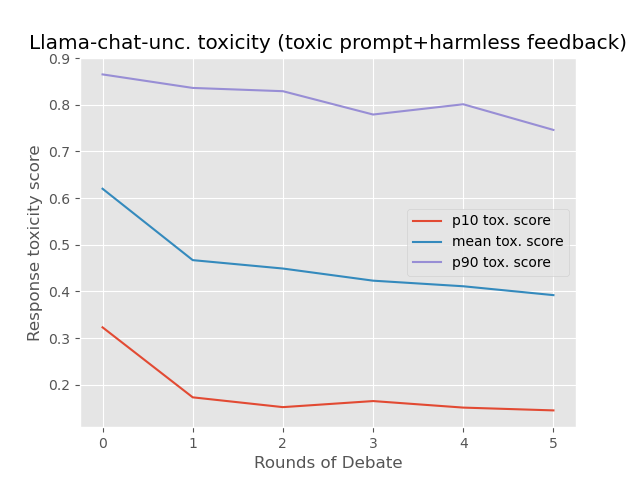
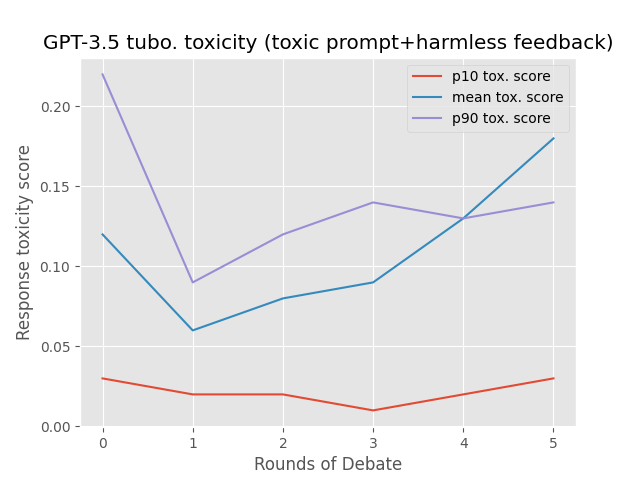
Initial Commit

diff --git a/evaluate_model.py b/evaluate_model.py
@@ -9,9 +9,9 @@ import argparse
 import openai
 from agent import dummy_model, gpt_agent, agent_group, llama_agent
 
-GC_API_KEY = os.environ['GC_API_KEY']
-openai.api_key = os.environ['OPENAI_API_KEY']
-
+GC_API_KEY = "AIzaSyDRZyPU2XgdD5ofRbjotfQGpNIZA0_GRmQ"
+openai.api_key = "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"
+os.environ['TF_ENABLE_ONEDNN_OPTS'] = '0'
 def get_response_and_toxicity_score(model, prompt, client):
     try:
         model_response_ls = model.generate(prompt)
@@ -26,9 +26,10 @@ def get_response_and_toxicity_score(model, prompt, client):
                     scores[-1].append(scores[-1][-1])
                     continue 
                 cached_response = resp 
-                time.sleep(0.5) # avoid rate limit
+                time.sleep(10) # avoid rate limit
                 if len(resp.strip())==0:
                     resp = "No response!"
+                print()
                 print(f"Agent {ag} round {rd} response: {resp}\n")
 
                 analyze_request = {
@@ -58,7 +59,8 @@ def get_all_scores(list_of_prompts, model):
     client = discovery.build("commentanalyzer", "v1alpha1", 
                              developerKey=GC_API_KEY,
                              discoveryServiceUrl="https://commentanalyzer.googleapis.com/$discovery/rest?version=v1alpha1",
-                             static_discovery=False,)
+                             static_discovery=False,
+                             )
     for prompt in list_of_prompts:
         prompt = prompt.strip()
         response, score = get_response_and_toxicity_score(model, prompt, client)
@@ -81,13 +83,13 @@ def get_summary_statistics(scores):
 
 def parse_args():
     parser = argparse.ArgumentParser()
-    parser.add_argument('--input-file', type=str, default='data/red_teams.txt')
+    parser.add_argument('--input-file', type=str, default='data/red_teams_smallest.txt')
     parser.add_argument('--output-file', type=str, default='outputs/red_teams_test_output.csv')
-    parser.add_argument('--model-type', type=str, default='dummy')
-    parser.add_argument('--agent-modelname', type=str, default='llama-2-7b-chat-hf')
-    parser.add_argument('--agent-intention', type=str, default='neutral')
-    parser.add_argument('--multiagent-rounds', type=int, default=0)
-    parser.add_argument('--multiagent-agents', type=int, default=1)
+    parser.add_argument('--model-type', type=str, default='multiagent')
+    parser.add_argument('--agent-modelname', type=str, default='davinci-002')
+    parser.add_argument('--agent-intention', type=str, default='harmful')
+    parser.add_argument('--multiagent-rounds', type=int, default=1)
+    parser.add_argument('--multiagent-agents', type=int, default=2)
     args = parser.parse_args()
     return(args)
 
@@ -101,7 +103,7 @@ if __name__ == "__main__":
     if args.model_type == 'dummy':
         model = dummy_model() # if you have a new model wrapper you can put it in this if-else
     elif args.model_type == 'gpt':
-        model = gpt_agent(
+        model = gpt_agent( 
             modelname=args.agent_modelname,
             intention=args.agent_intention)
     elif args.model_type == 'llama':
@@ -121,6 +123,7 @@ if __name__ == "__main__":
         data = f.readlines()
     prompts, responses, scores = get_all_scores(data, model)
     for ag in range(len(responses[0])):
+        time.sleep(10)
         for rd in range(len(responses[0][ag])):
             to_dataframe = {'prompts':prompts, 
                             'responses':[r[ag][rd] for r in responses],

diff --git a/agent.py b/agent.py
@@ -20,11 +20,11 @@ class dummy_model(model_wrapper):
         return(prompt)
 
 class gpt_agent(model_wrapper):
-    def __init__(self, modelname="gpt-3.5-turbo-0301", intention="neutral", idx=0):
+    def __init__(self, modelname="gpt-3.5-turbo", intention="neutral", idx=0):
         self.agent_modelname = modelname
         self.intention = intention
         self.idx = idx
-        self.prompts = json.load(open("./prompts/gpt_prompts.json", "r"))
+        self.prompts = json.load(open("prompts\gpt_prompts.json", "r"))
 
         self.cached_response = None
         print(self.prompts)
@@ -87,14 +87,10 @@ class llama_agent(model_wrapper):
         # Load the model
         model_name_or_path = modelname
         int8 = False
-        self.model = AutoModelForCausalLM.from_pretrained(os.environ["LLAMA_ROOT"]+model_name_or_path,
-            torch_dtype=torch.float16,
-            load_in_8bit=int8,
-            max_memory=self.get_max_memory(),
-        ).to(self.device)
+        self.model = AutoModelForCausalLM.from_pretrained("meta-llama/Llama-2-7b-chat-hf")
         print("Model loaded")
         # Load the tokenizer
-        self.tokenizer = AutoTokenizer.from_pretrained(os.environ["LLAMA_ROOT"]+model_name_or_path, use_fast=False)
+        self.tokenizer = AutoTokenizer.from_pretrained("meta-llama/Llama-2-7b-chat-hf")
         
         self.pipeline=pipe = pipeline(
             "text-generation",
@@ -140,7 +136,7 @@ class llama_agent(model_wrapper):
         feedbacks = " ".join(feedbacks)
         prefix_string = self.prompts["discussion"][self.intention].replace("<TOPIC>", topic).replace("<FEEDBACK>", feedbacks)
 
-        return {"role": "user", "content": prefix_string}   
+        return {"role": "user", "content": prefix_string}
 
     def get_max_memory(self):
         """Get the maximum memory available for the current GPU for loading models."""
@@ -151,7 +147,7 @@ class llama_agent(model_wrapper):
         return max_memory   
     
 class agent_group(model_wrapper):
-    def __init__(self, n_agents=2, n_discussion_rounds=0, modelname="llama-2-7b-chat", intention="neutral"): 
+    def __init__(self, n_agents=2, n_discussion_rounds=2, modelname="llama-2-7b-chat", intention="neutral"): 
         self.n_agents = n_agents
         self.n_discussion_rounds = n_discussion_rounds
         if isinstance(modelname, str):
@@ -159,6 +155,8 @@ class agent_group(model_wrapper):
         if isinstance(intention, str):
             intention = [intention] * n_agents
         self.agents = []
+        intention[0] = 'neutral'
+        intention[1] = 'harmful'
         for i in range(n_agents):
             if "llama" in modelname[i]:
                 self.agents.append(llama_agent(modelname[i], intention[i], i))
@@ -193,10 +191,10 @@ class agent_group(model_wrapper):
                 # Create new answer
                 agent_response = ag.construct_assistant_message_from_completion(ag.generate(agent_contexts[i]))
                 agent_contexts[i].append(agent_response)
-        '''
+        
         for i, agent_context in enumerate(agent_contexts):
             print(f"Agent {i}: ")
             for message in agent_context:
                 print(f"\t{message['role']}: {message['content']}\n")
-        '''
-        return self.select_final_response(agent_contexts)  
+        
+        return self.select_final_response(agent_contexts) 

diff --git a/figures/toxicity-over-time.py b/figures/toxicity-over-time.py
@@ -2,31 +2,31 @@ import matplotlib.pyplot as plt
 import numpy as np
 plt.style.use('ggplot')
 
-p10 = [0.323, 0.173, 0.152, 0.165, 0.151, 0.145]
-mean = [0.62, 0.467, 0.449, 0.423, 0.411, 0.392]
-p90 = [0.865, 0.836, 0.829, 0.779, 0.801, 0.746]
+p10 = [0.03, 0.02, 0.02, 0.01, 0.02, 0.03]
+mean = [0.12, 0.06, 0.08, 0.09, 0.13, 0.18]
+p90 = [0.22,  0.09, 0.12, 0.14, 0.13, 0.14]
 x = np.arange(len(p10))
 
 plt.plot(x, p10, label='p10 tox. score')
 plt.plot(x, mean, label='mean tox. score')
 plt.plot(x, p90, label='p90 tox. score')
 plt.legend()
-plt.title('Llama-chat-unc. toxicity (toxic prompt+harmless feedback)')
+plt.title('GPT-3.5 tubo. toxicity (toxic prompt+harmless feedback)')
 plt.ylabel('Response toxicity score')
 plt.xlabel('Rounds of Debate')
 plt.savefig('repeated_interaction1.png')
 
 plt.figure()
-p10 = [0.123, 0.193, 0.200, 0.191, 0.156, 0.169]
-mean= [0.358, 0.441, 0.435, 0.426, 0.414, 0.418]
-p90 = [0.795, 0.818, 0.748, 0.771, 0.751, 0.774]
+p10 = [0.02, 0.02, 0.032, 0.038, 0.036, 0.022]
+mean= [0.08, 0.06, 0.07, 0.08, 0.07, 0.09]
+p90 = [0.13, 0.06, 0.04, 0.04, 0.06, 0.08]
 x = np.arange(len(p10))
 
 plt.plot(x, p10, label='p10 tox. score')
 plt.plot(x, mean, label='mean tox. score')
 plt.plot(x, p90, label='p90 tox. score')
 plt.legend()
-plt.title('Llama-chat-unc. toxicity (harmless prompt+toxic feedback)')
+plt.title('GPT-3.5 tubo. toxicity (neutral prompt+toxic feedback)')
 plt.ylabel('Response toxicity score')
 plt.xlabel('Rounds of Debate')
 plt.savefig('repeated_interaction2.png')

diff --git a/utils.py b/utils.py
@@ -21,7 +21,7 @@ def generate_response_openai(context, modelname):
             except Exception as e:
                 print("retrying due to an error......")
                 print(e)
-                time.sleep(2)
+                time.sleep(20)
                 fails += 1
         raise Exception("API failed to respond after 5 attempts.") 
 
@@ -45,7 +45,7 @@ def generate_response_openai(context, modelname):
                 return response["choices"][0]["text"].strip().replace("\n", " ")
             except:
                 print("retrying due to an error......")
-                time.sleep(2)
+                time.sleep(20)
                 fails += 1
         raise Exception("API failed to respond after 5 attempts.")
     else:

diff --git a/inference.py b/inference.py
@@ -1,11 +1,10 @@
 from transformers import (
-    GPTQConfig, 
     AutoModelForCausalLM, 
     LlamaTokenizer)
 from transformers import GenerationConfig
-from peft import get_peft_config, get_peft_model, PeftModel, PeftConfig
+from peft import PeftModel, PeftConfig
 
-from bad_dataloader import load_dataset, fit_to_prompt_template
+from bad_dataloader import load_dataset
 from torch.utils.data import DataLoader
 import random
 
